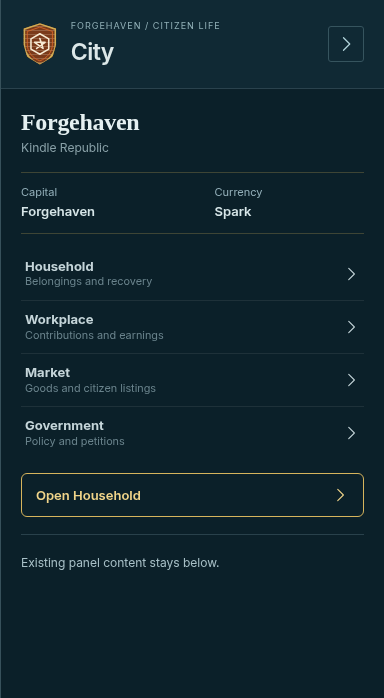
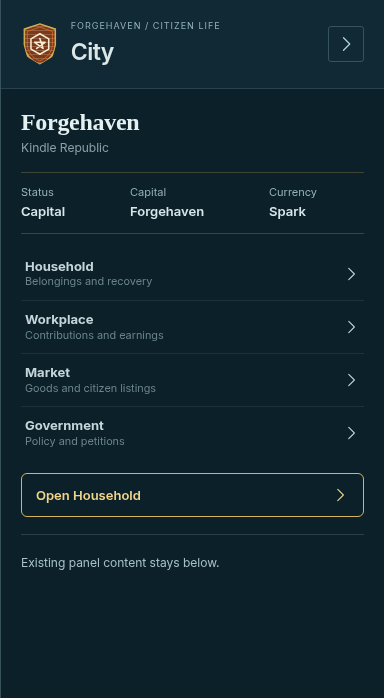
#392 S3 follow-up: Status: Capital stat on capital cities only, derived from the city catalog (UI_V2_PANEL)

Changed region(s): [[0.5625, 0.2708, 0.8125, 0.3309], [0.3438, 0.2708, 0.5312, 0.3309], [0.0625, 0.2708, 0.25, 0.3309]]

diff --git a/app/page.tsx b/app/page.tsx
@@ -19,7 +19,7 @@ import { createGuestDemo, guestDemoAction, type GuestDemoAction } from '@/lib/gu
 import { canReadSharedWorld } from '@/lib/guest-access';
 import { readCitizenIntents, writeCitizenIntents } from '@/lib/citizen-session';
 import { PanelV2 } from './panel-v2';
-import { uiV2PanelEnabled } from '@/lib/ui-v2-panel';
+import { cityStatusStat, uiV2PanelEnabled } from '@/lib/ui-v2-panel';
 import { pioneerNote, populationBandLabel, type PopulationBand } from '@/lib/population-bands';
 import { kioskClosed, kioskRefusal, spk, tsr } from '@/lib/kiosk-text';
 import { FirstWeekTracker } from './first-week-tracker';
@@ -1808,7 +1808,7 @@ export default function Home() {
   const countryPanel = <section aria-label="Country travel"><p>{countryNation.name} · three cities from the official lore.</p><p>Free, instant travel. Home stays in the capital. Jobs and markets are shared across these cities in this preview.</p>{cityError && <p role="alert">{cityError}</p>}{citizenNation && !currentCityAccount && <button type="button" onClick={()=>setCityRetry(value=>value+1)}>Refresh city account</button>}<button type="button" onClick={()=>changeView('square')}>Open City</button></section>;
   const gamePanel = viewMode==='world' ? worldPanel : viewMode==='country' ? countryPanel : foreignCivic ? foreignCivicPanel : viewMode==='square' ? <>
     {panelV2 && (() => { const cityNation = citizenNation ?? selected, destinations = cityDestinations(cityNation.id, marketVisible(cityNation.id, marketShown)), home = destinations.find(card => card.id === 'household');
-      return <PanelV2 nationId={cityNation.id} title={activeCity?.name ?? cityNation.capital} subtitle={cityNation.name} stats={[{ label: 'Capital', value: cityNation.capital }, { label: 'Currency', value: cityNation.currency }]}
+      return <PanelV2 nationId={cityNation.id} title={activeCity?.name ?? cityNation.capital} subtitle={cityNation.name} stats={[...[cityStatusStat(activeCity)].filter(stat => stat !== null), { label: 'Capital', value: cityNation.capital }, { label: 'Currency', value: cityNation.currency }]}
         rowsLabel="City destinations" rows={destinations.map(card => ({ id: card.id, label: card.label, detail: card.detail, onSelect: () => changeView(card.id) }))}
         primary={home ? { label: `Open ${home.label}`, onSelect: () => changeView('household') } : undefined} />; })()}
     {guestAllowed && <button type="button" onClick={() => { stopTour(); setFirstVisitStage('arrival'); setShortlistIds([]); setFirstVisitGuideOpen(true); changeView('world'); }}>Start first-visit guide</button>}

diff --git a/lib/ui-v2-panel.ts b/lib/ui-v2-panel.ts
@@ -1,3 +1,7 @@
 /** Build-time flag NEXT_PUBLIC_HARIMU_UI_V2_PANEL (UI v2, stage S3 of #392): the World and City side panels open with the concept's panel shape
  *  (summary header, chevron rows, one primary action) built from existing content. "true" in preview, "false" in production; only the exact string "true" enables it. */
 export function uiV2PanelEnabled(value: string | undefined = process.env.NEXT_PUBLIC_HARIMU_UI_V2_PANEL): boolean { return value === 'true'; }
+
+/** #392 S3 follow-up: the concept's "Status: Capital" stat, derived from the existing city catalog (`capital` on lib/cities.ts entries; no new field).
+ *  Returned only for a capital, so other cities show no Status stat. "Capital" is the country map's existing capital badge text. */
+export function cityStatusStat(city: { capital?: boolean } | null | undefined): { label: string; value: string } | null { return city?.capital ? { label: 'Status', value: 'Capital' } : null; }
